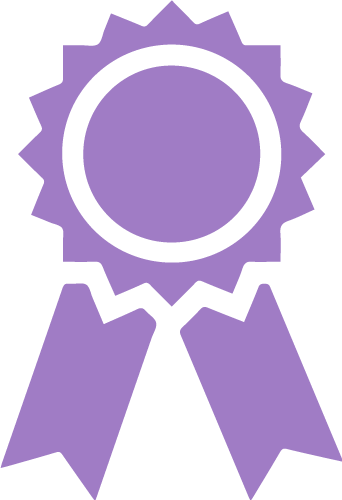
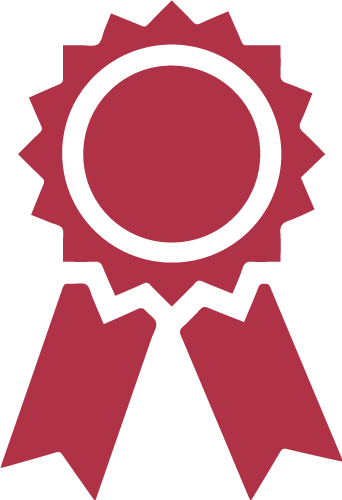
Best paper nominees added

diff --git a/program.html b/program.html
@@ -150,7 +150,8 @@
                             		<!-- <p><b>Session 1: AR, VR and Games</b></p> -->
                                     <button type="button" class="collapsible" onclick="ViewSession(1)">
                                         <img id="session1" src="assets/img/large/tri_expand.png" alt="icon indicator for expanding the tab" />
-                                        <b> &nbsp;&nbsp;Session 1: AR, VR and Games</b>
+                                        <span style="font-weight:normal;"><b>&nbsp;&nbsp;Session 1: AR, VR and Games</b> &nbsp;&nbsp;(Brian Smith, Columbia University)</span>
+                                        
                                     </button>
                                     <div class="content button-content paper">
 	                            		<b class="track-name">[Experience Report]</b> <b>Access on Demand: Real-time, Multi-modal Accessibility for the Deaf and Hard-of-Hearing based on Augmented-Reality</b>
@@ -216,7 +217,7 @@
                             		<!-- <p><b>Session 2: Representation and Inclusion</b></p> -->
                                     <button type="button" class="collapsible" onclick="ViewSession(2)">
                                         <img id="session2" src="assets/img/large/tri_expand.png" alt="icon indicator for expanding the tab" />&nbsp;&nbsp;
-                                        <b>Session 2: Representation and Inclusion</b>
+                                        <span style="font-weight:normal;"><b>Session 2: Representation and Inclusion</b> &nbsp;&nbsp;(Cynthia Bennett, Google)</span>
                                     </button>
                                     <div class="content button-content paper">
 										<b class="track-name">[Experience Report]</b> <b>Expressive Bodies -- Engaging with Embodied Disability Cultures for Collaborative Design Critiques</b>
@@ -232,7 +233,7 @@
 											<li>Amnah Mahmood, Department of Mathematics, University of Maryland, College Park, College Park, Maryland, United States</li>
 											<li>Hernisa Kacorri, College of Information Studies, University of Maryland, College Park, Maryland, United States</li>
 										</ul>
-										<b>Chronically Under-Addressed: Considerations for HCI Accessibility Practice with Chronically Ill People</b>
+										<b>Chronically Under-Addressed: Considerations for HCI Accessibility Practice with Chronically Ill People&nbsp;&nbsp;&nbsp;<img src="assets/img/large/honorable_mention.png" style="width: 15px;" alt="honorable mention" /> <span style="color:#af3247;">Best Paper Nominee</span></b>
 										<ul>
 											<li>Kelly Mack, Paul G. Allen School of Computer Science and Engineering, University of Washington, Seattle, Washington, United States</li>
 											<li>Emma J McDonnell, Human Centered Design and Engineering, University of Washington, Seattle, Washington, United States</li>
@@ -271,14 +272,15 @@
                             		<!-- <p><b>Session 3: Data for Modeling and Recognition</b></p> -->
                                     <button type="button" class="collapsible" onclick="ViewSession(3)">
                                         <img id="session3" src="assets/img/large/tri_expand.png" alt="icon indicator for expanding the tab" />&nbsp;&nbsp;
-                                        <b>Session 3: Data for Modeling and Recognition</b>
+                                       
+                                        <span style="font-weight:normal;"><b>Session 3: Data for Modeling and Recognition</b> &nbsp;&nbsp;(Abigale Stangl, Univ. of Washington)</span>
                                     </button>
                                     <div class="content button-content paper">
 										<b class="track-name">[Experience Report]</b> <b>Performing Qualitative Data Analysis as a Blind Researcher: Challenges, Workarounds and Design Recommendations</b>
 										<ul>
 											<li>O Aishwarya, International Institute of Information Technology, Bangalore, Bangalore, Karnataka, India</li>
 										</ul>
-										<b>Blind Users Accessing Their Training Images in Teachable Object Recognizers</b>
+										<b>Blind Users Accessing Their Training Images in Teachable Object Recognizers&nbsp;&nbsp;<img src="assets/img/large/honorable_mention.png" style="width: 15px;" alt="honorable mention" /> <span style="color:#af3247;">Best Paper Nominee</span></b>
 										<ul>
 											<li>Jonggi Hong, Smith-Kettlewell Eye Research Institute, San Francisco, California, United States</li>
 											<li>Jaina Gandhi, School of Information Studies, University of Maryland, College Park, Maryland, United States</li>
@@ -367,7 +369,8 @@
                             		<!-- <p><b>Session 4: Composition in Music, Programming and Design</b></p> -->
                                     <button type="button" class="collapsible" onclick="ViewSession(4)">
                                         <img id="session4" src="assets/img/large/tri_expand.png" alt="icon indicator for expanding the tab" />&nbsp;&nbsp;
-                                        <b>Session 4: Composition in Music, Programming and Design</b>
+                                        
+                                        <span style="font-weight:normal;"><b>Session 4: Composition in Music, Programming and Design</b> &nbsp;&nbsp;(Foad Hamidi, UMBC)</span>
                                     </button>
                                     <div class="content button-content paper">
 										<b>Empowering Blind Musicians to Compose and Notate Music with SoundCells</b>
@@ -386,7 +389,7 @@
 											<li>Akihisa Shitara, University of Tsukuba , Tsukuba, Japan</li>
 											<li>Yoichi Ochiai, University of Tsukuba, Tsukuba, Japan</li>
 										</ul>
-										<b>Accessible Blockly: An Accessible Block-Based Programming Library for People with Visual Impairments</b>
+										<b>Accessible Blockly: An Accessible Block-Based Programming Library for People with Visual Impairments&nbsp;&nbsp;&nbsp;<img src="assets/img/large/honorable_mention.png" style="width: 15px;" alt="honorable mention" /> <span style="color:#af3247;">Best Paper Nominee</span></b>
 										<ul>
 											<li>Aboubakar Mountapmbeme, Computer Science and Engineering, University of North Texas, Denton, Texas, United States</li>
 											<li>Obianuju Okafor, Computer Science and Engineering, University of North Texas, Denton, Texas, United States</li>
@@ -451,7 +454,7 @@
                             		<!-- <p><b>Session 5: Communication</b></p> -->
                                     <button type="button" class="collapsible" onclick="ViewSession(5)">
                                         <img id="session5" src="assets/img/large/tri_expand.png" alt="icon indicator for expanding the tab" />&nbsp;&nbsp;
-                                        <b>Session 5: Communication</b>
+                                        <span style="font-weight:normal;"><b>Session 5: Communication</b> &nbsp;&nbsp;(LouAnne Boyd, Chapman University)</span>
                                     </button>
                                     <div class="content button-content paper">
 										<b>State of the Art in AAC: A Systematic Review and Taxonomy</b>
@@ -460,13 +463,13 @@
 											<li>Timothy Neate, Department of Informatics, King's College London, London, United Kingdom</li>
 											<li>Carlota Vazquez Gonzalez, King's College London, London, United Kingdom</li>
 										</ul>
-										<b>AAC with Automated Vocabulary from Photographs: Insights from School and Speech-Language Therapy Settings</b>
+										<b>AAC with Automated Vocabulary from Photographs: Insights from School and Speech-Language Therapy Settings&nbsp;&nbsp;&nbsp;<img src="assets/img/large/honorable_mention.png" style="width: 15px;" alt="honorable mention" /> <span style="color:#af3247;">Best Paper Nominee</span></b>
 										<ul>
 											<li>Mauricio Fontana de Vargas, School of Information Studies, McGill University, Montreal, Quebec, Canada</li>
 											<li>Jiamin Dai, School of Information Studies, McGill University, Montreal, Quebec, Canada</li>
 											<li>Karyn Moffatt, School of Information Studies, McGill University, Montreal, Quebec, Canada</li>
 										</ul>
-										<b>LaMPost: Design and Evaluation of an AI-assisted Email Writing Prototype for Adults with Dyslexia</b>
+										<b>LaMPost: Design and Evaluation of an AI-assisted Email Writing Prototype for Adults with Dyslexia&nbsp;&nbsp;&nbsp;<img src="assets/img/large/honorable_mention.png" style="width: 15px;" alt="honorable mention" /> <span style="color:#af3247;">Best Paper Nominee</span></b>
 										<ul>
 											<li>Steven M. Goodman, Human Centered Design and Engineering, University of Washington, Seattle, Washington, United States & Google, Seattle, Washington, United States</li>
 											<li>Erin Buehler, Google, Mountain View, California, United States</li>
@@ -520,7 +523,7 @@
                             		<!-- <p><b>Session 6: Social Media and Media</b></p> -->
                                     <button type="button" class="collapsible" onclick="ViewSession(6)">
                                         <img id="session6" src="assets/img/large/tri_expand.png" alt="icon indicator for expanding the tab" />&nbsp;&nbsp;
-                                        <b>Session 6: Social Media and Media</b>
+                                        <span style="font-weight:normal;"><b>Session 6: Social Media and Media</b> &nbsp;&nbsp;(Garreth Tigwell, RIT)</span>
                                     </button>
                                     <div class="content button-content paper">
 										<b>Nothing Micro About It: Examining Ableist Microaggressions on Social Media</b>
@@ -540,7 +543,7 @@
 											<li>Tiago Guerreiro, LASIGE, Faculdade de Ciências, Universidade de Lisboa, Lisbon, Portugal</li>
 											<li>Carlos Duarte, LASIGE, Faculdade de Ciências da Universidade de Lisboa, Lisboa, Portugal</li>
 										</ul>
-										<b>Support in the Moment: Benefits and use of video-span selection and search for sign-language video comprehension among ASL learners</b>
+										<b>Support in the Moment: Benefits and use of video-span selection and search for sign-language video comprehension among ASL learners&nbsp;&nbsp;&nbsp;<img src="assets/img/large/honorable_mention.png" style="width: 15px;" alt="honorable mention" /> <span style="color:#af3247;">Best Paper Nominee</span></b>
 										<ul>
 											<li>Saad Hassan, Computing and Information Sciences, Rochester Institute of Technology, Rochester, New York, United States</li>
 											<li>Akhter Al Amin, Computing and Information Sciences, Rochester Institute of Technology, Rochester, New York, United States</li>
@@ -614,7 +617,7 @@
                             		<!-- <p><b>Session 7: Tactile and Haptics</b></p> -->
                                     <button type="button" class="collapsible" onclick="ViewSession(7)">
                                         <img id="session7" src="assets/img/large/tri_expand.png" alt="icon indicator for expanding the tab" />&nbsp;&nbsp;
-                                        <b>Session 7: Tactile and Haptics</b>
+                                        <span style="font-weight:normal;"><b>Session 7: Tactile and Haptics</b> &nbsp;&nbsp;(Roshan Peiris, RIT)</span>
                                     </button>
                                     <div class="content button-content paper">
 										<b class="track-name">[Experience Report]</b> <b>Low-Cost Tactile Coloring Page Fabrication on a Cutting Machine</b>
@@ -633,7 +636,7 @@
 											<li>Cagatay Goncu, Department of Human-Centred Computing, Monash University, Melbourne, Victoria, Australia</li>
 											<li>Kate Stephens, Department of Human-Centred Computing, Monash University, Melbourne, Australia</li>
 										</ul>
-										<b>Quantifying Touch: New Metrics for Characterizing What Happens During a Touch</b>
+										<b>Quantifying Touch: New Metrics for Characterizing What Happens During a Touch&nbsp;&nbsp;&nbsp;<img src="assets/img/large/honorable_mention.png" style="width: 15px;" alt="honorable mention" /> <span style="color:#af3247;">Best Paper Nominee</span></b>
 										<ul>
 											<li>Junhan Kong, University of Washington, Seattle, Washington, United States</li>
 											<li>Mingyuan Zhong, Paul G. Allen School of Computer Science & Engineering, University of Washington, Seattle, Washington, United States</li>
@@ -678,7 +681,7 @@
                             		<!-- <p><b>Session 8: Accessibility in Daily Living</b></p> -->
                                     <button type="button" class="collapsible" onclick="ViewSession(8)">
                                         <img id="session8" src="assets/img/large/tri_expand.png" alt="icon indicator for expanding the tab" />&nbsp;&nbsp;
-                                        <b>Session 8: Accessibility in Daily Living</b>
+                                        <span style="font-weight:normal;"><b>Session 8: Accessibility in Daily Living</b> &nbsp;&nbsp;(Martez Mott, Microsoft Research)</span>
                                     </button>
                                     <div class="content button-content paper">
 										<b class="track-name">[Experience Report]</b> <b>Depending on Independence - An Autoethnographic Account of Daily Use of Assistive Technologies</b>
@@ -729,7 +732,7 @@
                             		<!-- <p><b>Session 9: Safety, Rehabilitation, and Transportation</b></p> -->
                                     <button type="button" class="collapsible" onclick="ViewSession(9)">
                                         <img id="session9" src="assets/img/large/tri_expand.png" alt="icon indicator for expanding the tab" />&nbsp;&nbsp;
-                                        <b>Session 9: Safety, Rehabilitation, and Transportation</b>
+                                        <span style="font-weight:normal;"><b>Session 9: Safety, Rehabilitation, and Transportation</b> &nbsp;&nbsp;(Emma Dixon, Clemson Univ.)</span>
                                     </button>
                                     <div class="content button-content paper">
 										<b class="track-name">[Experience Report]</b> <b>It's Enactment Time!: High-fidelity Enactment Stage for Accessible Automated Driving System Technology Research</b>
@@ -744,7 +747,7 @@
 											<li>Robin N. Brewer, School of Information, University of Michigan, Ann Arbor, Michigan, United States</li>
 											<li>Julian Brinkley, School of Computing, Clemson University, Clemson, South Carolina, United States</li>
 										</ul>
-										<b>A Collaborative Approach to Support Medication Management in Older Adults with Mild Cognitive Impairment Using Conversational Assistants (CAs)</b>
+										<b>A Collaborative Approach to Support Medication Management in Older Adults with Mild Cognitive Impairment Using Conversational Assistants (CAs)&nbsp;&nbsp;&nbsp;<img src="assets/img/large/honorable_mention.png" style="width: 15px;" alt="honorable mention" /> <span style="color:#af3247;">Best Paper Nominee</span></b>
 										<ul>
 											<li>Niharika Mathur, School of Interactive Computing, Georgia Institute of Technology , Atlanta, Georgia, United States</li>
 											<li>Kunal Dhodapkar, School of Interactive Computing, Georgia Institute of Technology, Atlanta, Georgia, United States</li>
